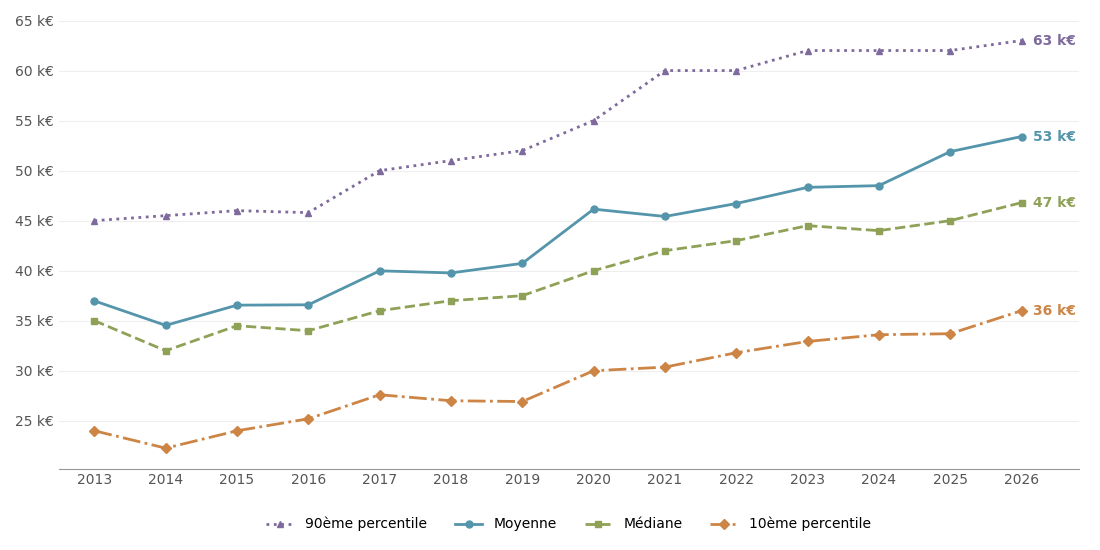
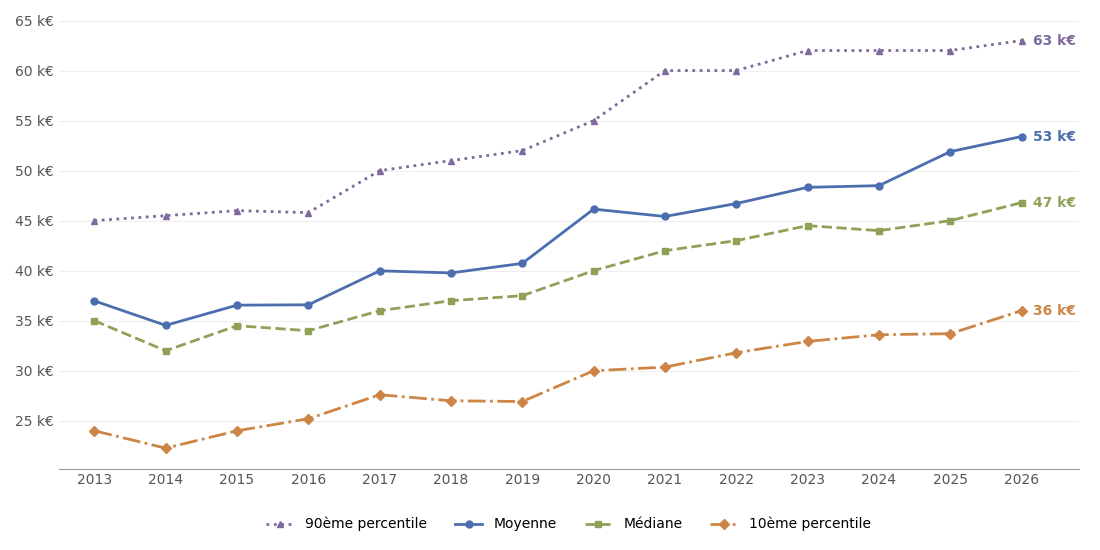
Harmonise le rendu des graphiques du site et corrige la page des versions PHP
- applique aux graphiques Highcharts la palette et le style des images du
  rapport 2026 (grille discrète, part et nombre de réponses sur les barres,
  dernière valeur en k€ sur les courbes, pourcentages lisibles sur les
  barres empilées), en gardant le bleu AFUP comme couleur principale ;
- convertit les couleurs de l'ancienne palette codées en dur dans les
  templates, sans toucher aux couleurs porteuses de sens ;
- ajoute les couleurs de PHP 8.4 et 8.5, dont l'absence faisait planter
  les pages des versions PHP ;
- régénère les images du rapport 2026 avec le bleu AFUP.

diff --git a/assets/js/charts.js b/assets/js/charts.js
@@ -1,7 +1,70 @@
+/* global Highcharts */
+
+var CHART_COLORS = {
+    blue: '#4C6EAF',
+    teal: '#5495ab',
+    orange: '#cd8546',
+    purple: '#7e6a9d',
+    green: '#8fa156',
+    text: '#333333',
+    muted: '#555555',
+    grid: '#eeeeee',
+    axis: '#999999'
+};
+
+// Lu par highchartTable pour la palette par défaut des séries
+Highcharts.theme = {
+    colors: [CHART_COLORS.blue, CHART_COLORS.orange, CHART_COLORS.purple, CHART_COLORS.green, CHART_COLORS.teal, '#92A8CD', '#A47D7C', '#B5CA92', '#999999']
+};
+
+Highcharts.setOptions({
+    chart: {
+        style: {fontFamily: 'inherit'}
+    },
+    xAxis: {
+        lineColor: CHART_COLORS.axis,
+        tickLength: 0,
+        labels: {style: {color: CHART_COLORS.muted, fontSize: '12px'}}
+    },
+    yAxis: {
+        gridLineColor: CHART_COLORS.grid,
+        labels: {style: {color: CHART_COLORS.muted, fontSize: '12px'}}
+    },
+    legend: {
+        itemStyle: {color: CHART_COLORS.text, fontWeight: 'normal', fontSize: '13px'}
+    },
+    plotOptions: {
+        column: {borderWidth: 1, borderColor: '#ffffff', pointPadding: 0.1}
+    }
+});
+
 $(document).ready(function () {
+
+    // Couleurs de l'ancienne palette encore codées en dur dans certains templates
+    var LEGACY_COLORS = {
+        '#343477': CHART_COLORS.blue,
+        '#3d96ae': CHART_COLORS.teal,
+        '#882d60': CHART_COLORS.orange,
+        '#a14679': CHART_COLORS.orange,
+        '#db843d': CHART_COLORS.orange,
+        '#80699b': CHART_COLORS.purple,
+        '#89a54e': CHART_COLORS.green
+    };
+    var modernColor = function (color) {
+        return typeof color === 'string' && LEGACY_COLORS[color.toLowerCase()] || color;
+    };
 
     $('table.highchart')
         .bind('highchartTable.beforeRender', function (event, highChartConfig) {
+
+            highChartConfig.series.forEach(function (serie) {
+                serie.color = modernColor(serie.color);
+                serie.data.forEach(function (point) {
+                    if (point && point.color) {
+                        point.color = modernColor(point.color);
+                    }
+                });
+            });
 
             if ($(this).hasClass('highchart-emoticon')) {
                 var icons = $(this).data('icons');
@@ -53,21 +116,64 @@ $(document).ready(function () {
                             return;
                         }
 
-                        if (this.percentage < 10) {
+                        if (this.percentage < 5) {
                             return;
                         }
 
-                        return '<b>' + this.series.name + '</b> : <br />' + ' ' + this.percentage.toFixed(2) + '%';
-                    }
+                        return this.percentage.toFixed(1) + ' %';
+                    },
+                    style: {fontSize: '12px', fontWeight: 'bold', textOutline: 'none'}
                 };
             }
 
-            if ($(this).hasClass('evolution-line')) {
+            if ($(this).data('graph-type') === 'line') {
                 highChartConfig.series.forEach(function(item) {
+                    item.lineWidth = 2;
                     item.marker = {
-                        enabled: true
+                        enabled: true,
+                        radius: 4
+                    };
+                    // Seule la dernière valeur de chaque courbe est affichée, en couleur et en k€
+                    item.dataLabels = {
+                        enabled: true,
+                        align: 'left',
+                        x: 6,
+                        verticalAlign: 'middle',
+                        style: {fontSize: '12px', fontWeight: 'bold', textOutline: 'none'},
+                        formatter: function () {
+                            if (this.point.index !== this.series.points.length - 1) {
+                                return null;
+                            }
+                            return '<span style="color: ' + this.series.color + '">' + Math.round(this.y / 1000) + ' k€</span>';
+                        }
                     };
                 });
+                highChartConfig.yAxis.forEach(function(axis) {
+                    axis.labels = axis.labels || {};
+                    axis.labels.formatter = function () {
+                        return Math.round(this.value / 1000) + ' k€';
+                    };
+                });
+                highChartConfig.chart.marginRight = 60;
+            }
+
+            // Comptages simples : on affiche la part et le nombre de réponses au bout de chaque barre
+            var isSingleCountColumn = $(this).data('graph-type') === 'column' &&
+                !highChartConfig.plotOptions.series.stacking &&
+                highChartConfig.series.length === 1 &&
+                $.trim(highChartConfig.series[0].name) === 'Nombre de réponses';
+            if (isSingleCountColumn && !$(this).data('graph-datalabels-format') && !$(this).hasClass('highchart-emoticon')) {
+                var total = highChartConfig.series[0].data.reduce(function (sum, point) {
+                    return sum + ((point && point.y) || 0);
+                }, 0);
+                highChartConfig.series[0].dataLabels = {
+                    enabled: true,
+                    color: CHART_COLORS.text,
+                    style: {fontSize: '12px', fontWeight: 'normal', textOutline: 'none'},
+                    formatter: function () {
+                        return Math.round(100 * this.y / total) + ' %  (' + this.y + ')';
+                    }
+                };
             }
 
             if ($(this).data('graph-datalabels-format')) {
@@ -83,7 +189,6 @@ $(document).ready(function () {
                 };
             }
 
-            highChartConfig.colors[0] = '#4C6EAF';
             var align = $(this).data('graph-xaxis-labels-align');
             if (align !== undefined) {
                 highChartConfig.xAxis.labels.align = align;
